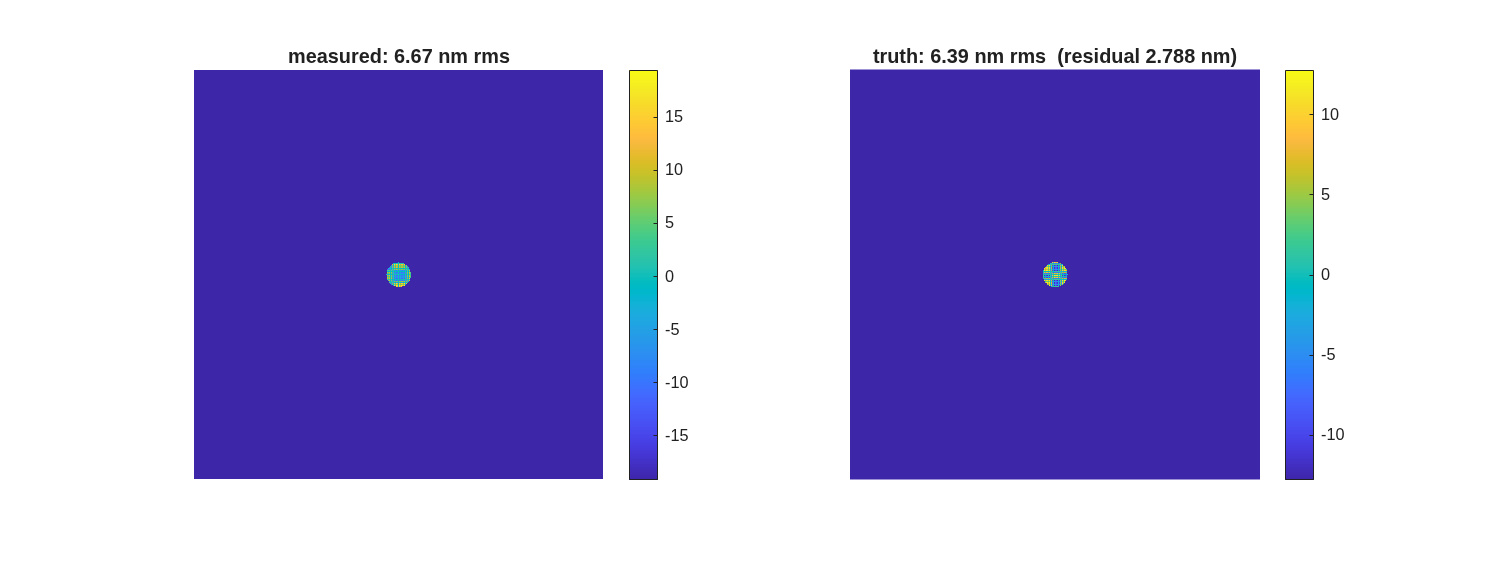
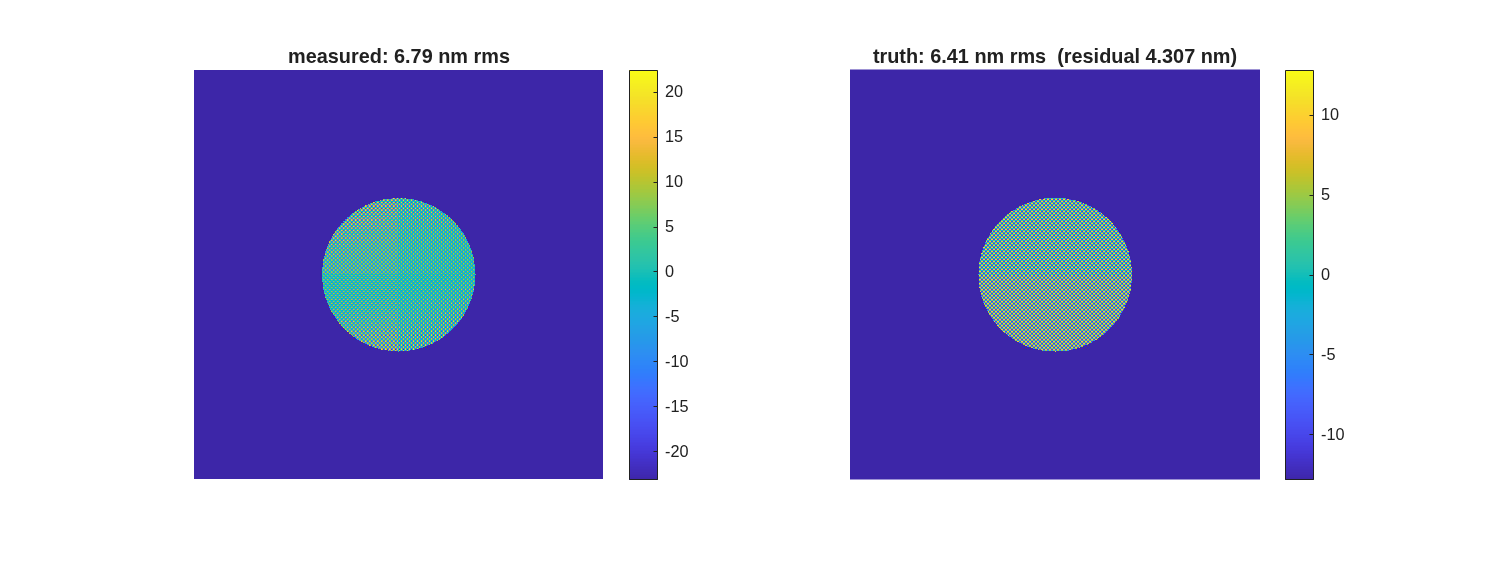
tg96 run 9: the instrument measured -- 1 Mpix detector resolves 1 mm actuators (gain 0.92 at DM Nyquist, 0.835 at checkerboard, crosstalk <=1.4%); two-poke deterministic registration doctrine (4 DOF classes: rays/center-poke/off-center-poke/its sign) earned across the run 3-8 failure series (preserv

diff --git a/mmacos/templates/90_polarization/tg_psi_dm96/tg96.m b/mmacos/templates/90_polarization/tg_psi_dm96/tg96.m
@@ -38,7 +38,14 @@ say = @(varargin) say_(rep, varargin{:});
 NACT = 96;  PITCH = 1.0;  DM_MM = NACT*PITCH;      % 96 mm aperture
 s    = DM_MM/56;                                   % uniform scale vs v1
 LAM  = 6.328e-4;  QWP = 0.25;  THETAS = [0 45 90 135];
-MODEL = 1024;  NGRID = 63;  N_G = 384;  DX_G = 0.28;  % 3.57 px/actuator
+MODEL = 1024;  NGRID = 385;  N_G = 384;  DX_G = 0.28;  % 3.57 px/actuator
+% NGRID 385 (Dave 2026-09-03, 'a detector capable of resolving the
+% imagery, up to 1 Mpix square'): the wavefront seed inherits the ray
+% grid's sampling, so the pupil image spans ~NGRID px at the detector.
+% 63 px gave detector Nyquist 31.5 cyc/pupil -- BLIND at the 96x96 DM's
+% 48 (the run of record for that finding is tg96_report_ng63.txt).
+% 385 px -> ~4 px/actuator, Nyquist ~192 cyc/pupil, inside the 1024^2
+% (1 Mpix) grid with FFT padding.
 % MODEL 1024 is LOAD-BEARING: mGridMat is NOT the model size -- 512 caps
 % grids at 256 (macos_param.txt) and the nGridMat= parse is unguarded
 % (BRIEF_gridmat_guard.md), so a 384 grid on model 512 corrupts the heap.
@@ -79,6 +86,22 @@ for k = 1:size(legs,1)
         legs{k,1}, D_BS_TO*sind(2*AOI), m, MARGIN);
 end
 say('\n');
+
+% ---- Stage A2: sampling budget (Dave 2026-09-03: sampling is part of
+%      the DESIGN -- size every interface in the signal chain against
+%      the finest feature it must carry, and assert the margin) ------
+act_nyq = NACT/2;                                  % cyc/pupil the DM commands
+det_nyq = NGRID/2;                                 % pupil image spans ~NGRID px
+grid_ppa = PITCH/DX_G;                             % surface-grid px per actuator
+say('Stage A2 -- sampling budget (finest feature: actuator Nyquist %.0f cyc/pupil):\n', act_nyq);
+say('  detector: ~%d px across pupil -> Nyquist %5.1f cyc/pup  margin %4.1fx (need >= 2)\n', ...
+    NGRID, det_nyq, det_nyq/act_nyq);
+say('  DM surface grid: %.2f px/actuator                        (need >= 3)\n', grid_ppa);
+say('  diffraction grid: %d^2 for a %d-px image                (padding %4.1fx)\n\n', ...
+    MODEL, NGRID, MODEL/NGRID);
+assert(det_nyq >= 2*act_nyq, 'sampling budget: detector Nyquist %.1f < 2x actuator Nyquist %.1f', det_nyq, act_nyq);
+assert(grid_ppa >= 3, 'sampling budget: %.2f grid px/actuator < 3', grid_ppa);
+assert(MODEL >= 2*NGRID, 'sampling budget: grid %d gives < 2x padding on a %d-px image', MODEL, NGRID);
 
 % ---- Stage B: build at the solved geometry -----------------------
 macos.init(MODEL);
@@ -126,11 +149,29 @@ Mp = dm_influence_map(N_G, DX_G, 'nact',NACT, 'pitch',PITCH, ...
 hp = meas_surface(AT, QWP, Mp, Sr, p_null, THETAS, LAM);
 say('  single actuator at 150 nm: recovered peak %.1f nm\n', 1e6*max(abs(hp(msk))));
 
+% REGISTRATION BY TWO POKES (deterministic -- no correlation search).
+% Runs 3-6 taught: the checkerboard's correlation landscape ripples at
+% every integer actuator, so any refiner can park an arbitrary integer
+% offset (run 6 measured 2.25 actuators); and a center poke cannot pick
+% parity (it is parity-invariant).  So: ray affine -> scale/rotation;
+% poke A (center, parity-invariant) -> translation EXACTLY by blob
+% centroid match; poke B (off-center) -> parity, by direct overlap, and
+% the selection metric doubles as the gate.
+A2c = zeros(NACT);  A2c(30,64) = 1;
+Mp2 = dm_influence_map(N_G, DX_G, 'nact',NACT, 'pitch',PITCH, 'act', 150e-6*A2c);
+hp2 = meas_surface(AT, QWP, Mp2, Sr, p_null, THETAS, LAM);
 Mdm = dm_influence_map(N_G, DX_G, 'nact',NACT, 'pitch',PITCH, ...
                        'pattern','checker', 'poke',POKE);
 hm = meas_surface(AT, QWP, Mdm, Sr, p_null, THETAS, LAM);
-[~, map] = register_to_dm(AT, Gf.T, Mdm, N_G, DX_G, hm, msk);
 axs = ((1:N_G)-(N_G+1)/2)*DX_G;
+[map, reg] = register_two_pokes(AT, Gf.T, Mp, hp, Mp2, hp2, N_G, DX_G, msk);
+say('  registration by two pokes: parity %d of 8, meas sign %+d; |pokeB corr| %.4f (runner-up %.4f)\n', ...
+    reg.par, reg.sign, abs(reg.pokeB_corr), reg.runner_up);
+say('  parity corr table: %s\n', sprintf('%.3f ', reg.table));
+assert(abs(reg.pokeB_corr) >= 0.8, 'registration gate FAILED: |pokeB corr| %.3f', abs(reg.pokeB_corr));
+assert(abs(reg.pokeB_corr) - reg.runner_up >= 0.3, 'registration gate FAILED: parity separation %.3f', ...
+       abs(reg.pokeB_corr) - reg.runner_up);
+hm = reg.sign * hm;                    % gauge sign calibration, applied
 tt = interpn(axs, axs, Mdm, map.Xt, map.Yt, 'spline', 0);
 hv = 1e6*(hm(msk) - mean(hm(msk)));  tv = 1e6*(tt(msk) - mean(tt(msk)));
 cc = corrcoef(hv, tv);
@@ -155,7 +196,7 @@ for k = 1:nM
     p = PQ(k,1); q = PQ(k,2);
     Ak = cos(pi*p*ii/NACT) * cos(pi*q*ii/NACT)';  Ak = Ak/max(abs(Ak(:)));
     Mk = dm_influence_map(N_G, DX_G, 'nact',NACT, 'pitch',PITCH, 'act', POKE*Ak);
-    hk = meas_surface(AT, QWP, Mk, Sr, p_null, THETAS, LAM);
+    hk = reg.sign * meas_surface(AT, QWP, Mk, Sr, p_null, THETAS, LAM);
     tk = interpn(axs, axs, Mk, map.Xt, map.Yt, 'spline', 0);
     Mm(:,k) = hk(msk) - mean(hk(msk));
     Tt(:,k) = tk(msk) - mean(tk(msk));
@@ -170,7 +211,7 @@ for k = 1:nM
 end
 Mrnd = dm_influence_map(N_G, DX_G, 'nact',NACT, 'pitch',PITCH, 'poke',POKE, ...
                         'pattern','random', 'seed',11);
-hv2 = meas_surface(AT, QWP, Mrnd, Sr, p_null, THETAS, LAM);
+hv2 = reg.sign * meas_surface(AT, QWP, Mrnd, Sr, p_null, THETAS, LAM);
 tv2 = interpn(axs, axs, Mrnd, map.Xt, map.Yt, 'spline', 0);
 hv2 = hv2(msk)-mean(hv2(msk));  tv2 = tv2(msk)-mean(tv2(msk));
 c2  = G \ (Tt \ hv2);
@@ -322,7 +363,9 @@ function h = meas_surface(A, QWP, M, Sr, p_null, THETAS, LAM)
     h = d * LAM/(4*pi);
 end
 
-function [best, map] = register_to_dm(A, ix, Mdm, N_G, DX_G, h, msk)
+function [map, reg] = register_two_pokes(A, ix, MpA, hpA, MpB, hpB, N_G, DX_G, msk)
+%  Ray affine (scale/rotation) + poke-A blob centroid (translation, exact)
+%  + poke-B overlap (parity selection among 8; doubles as the gate).
     macos.load_rx(A.rx);
     s1 = macos.trace(ix.iTO);   ito  = macos.get_ray_info(s1.nRays);
     s2 = macos.trace(ix.iDET);  idet = macos.get_ray_info(s2.nRays);
@@ -340,28 +383,42 @@ function [best, map] = register_to_dm(A, ix, Mdm, N_G, DX_G, h, msk)
     nl  = xy_to - (Lm*xy_d + Aaf(3,:).');
     map = struct('mag', sqrt(abs(det(Lm))), 'anam_pct', 100*(sm(1)/sm(2)-1), ...
                  'nonlin_mm', sqrt(mean(sum(nl.^2,1))));
-    Fx = scatteredInterpolant(xy_d(1,:).', xy_d(2,:).', xy_to(1,:).', 'linear','linear');
-    Fy = scatteredInterpolant(xy_d(1,:).', xy_d(2,:).', xy_to(2,:).', 'linear','linear');
-    N = size(h,1);  [cg, rg] = meshgrid(1:N, 1:N);
+    N = size(hpA,1);  [cg, rg] = meshgrid(1:N, 1:N);
     cx = sum(cg(msk))/nnz(msk);  cy = sum(rg(msk))/nnz(msk);
     dxp = macos.dx_at(ix.iDET, 'mm');
     a1 = (cg-cx)*dxp;  a2 = (rg-cy)*dxp;
-    c_d = mean(xy_d, 2);
     axs = ((1:N_G)-(N_G+1)/2)*DX_G;
-    hm = h - mean(h(msk));
+    sc = map.mag;                        % isotropic (anam ~0): DM mm per det mm
+    % measured blob-A centroid in detector-plane coords (weighted, top 5%)
+    w = abs(hpA - median(hpA(msk)));  w(~msk) = 0;
+    w(w < 0.05*max(w(:))) = 0;
+    bx = sum(a1(:).*w(:))/sum(w(:));  by = sum(a2(:).*w(:))/sum(w(:));
+    % truth blob positions on the DM (mm)
+    [~,iA] = max(abs(MpA(:)));  [rA, cA] = ind2sub(size(MpA), iA);
+    pA = [axs(cA) axs(rA)];
+    hpB0 = hpB(msk) - mean(hpB(msk));
     cands = {a1,a2; a1,-a2; -a1,a2; -a1,-a2; a2,a1; a2,-a1; -a2,a1; -a2,-a1};
-    best = struct('c',-inf, 'i',1);
-    for c = 1:size(cands,1)
-        [cc, ht] = reg_corr([0 0 0 0], cands{c,1}, cands{c,2}, c_d, Fx, Fy, axs, Mdm, hm, msk);
-        if cc > best.c, best = struct('c',cc, 'ht',ht, 'i',c); end
+    % blob-A centroid under each parity: parity acts on (a1,a2), and the
+    % centroid transforms the same way -- evaluate directly.
+    bA = {[bx by]; [bx -by]; [-bx by]; [-bx -by]; [by bx]; [by -bx]; [-by bx]; [-by -bx]};
+    reg = struct('pokeB_corr',0,'par',0);  tab = zeros(1,8);  best_abs = -1;
+    for c = 1:8
+        Xc = sc*cands{c,1};  Yc = sc*cands{c,2};
+        Xc = Xc - (sc*bA{c}(1) - pA(1));      % translation: blob A -> truth A
+        Yc = Yc - (sc*bA{c}(2) - pA(2));
+        tps = interpn(axs, axs, MpB, Xc, Yc, 'spline', 0);
+        cc = corrcoef(hpB0, tps(msk)-mean(tps(msk)));
+        tab(c) = cc(1,2);
+        if abs(cc(1,2)) > best_abs
+            best_abs = abs(cc(1,2));
+            reg.pokeB_corr = cc(1,2);  reg.par = c;  reg.Xt = Xc;  reg.Yt = Yc;
+        end
     end
-    A1 = cands{best.i,1};  A2 = cands{best.i,2};
-    p = fminsearch(@(q) -reg_corr(q,A1,A2,c_d,Fx,Fy,axs,Mdm,hm,msk), [0 0 0 0], ...
-                   optimset('TolX',1e-7,'TolFun',1e-10,'Display','off'));
-    [c2, ht2, Xt, Yt] = reg_corr(p, A1, A2, c_d, Fx, Fy, axs, Mdm, hm, msk);
-    if c2 > best.c, best.c = c2;  best.ht = ht2; end
-    best.hm = hm;
-    map.Xt = Xt;  map.Yt = Yt;
+    st = sort(abs(tab), 'descend');  reg.runner_up = st(2);  reg.table = tab;
+    % The four-step sign is DECK-DEPENDENT (the v1 example's h = +-psi
+    % lambda/4pi gate); the poke-B overlap sign IS that calibration.
+    reg.sign = sign(reg.pokeB_corr);
+    map.Xt = reg.Xt;  map.Yt = reg.Yt;
 end
 
 function [c, ht, Xt, Yt] = reg_corr(p, A1, A2, c_d, Fx, Fy, axs, Mdm, hm, msk)

diff --git a/mmacos/templates/90_polarization/tg_psi_dm96/README.md b/mmacos/templates/90_polarization/tg_psi_dm96/README.md
@@ -1,0 +1,87 @@
+# tg_psi_dm96 — the optimized-plate gauge for a Xinetics 96×96 DM
+
+The shallow-plate (option-3) polarization-PSI Twyman–Green, laid out
+for a 96×96-actuator, 1.0 mm-pitch DM (96 mm beam — the aperture class
+where a PBS cube goes custom).  `tg96.m` is the whole campaign: Stage A
+clearance solve (margins printed as numbers), Stage A2 sampling budget
+(asserted — Dave 2026-09-03: sampling is part of the design), Stage B
+scaled build, Stage C battery, Stage D actuator-lattice transfer curve.
+
+## Findings so far (reports are the record)
+
+- `tg96_report_ng63.txt` — 63 px across the pupil: detector-blind at
+  actuator scale (single 1 mm actuator reads 73/150 nm).  Detector
+  Nyquist 31.5 cyc/pupil vs the DM's 48.  MODEL 1024 is load-bearing:
+  mGridMat is NOT the model size (512 caps at 256) and the `nGridMat=`
+  parse is unguarded — see `macos/BRIEF_gridmat_guard.md`.
+- `tg96_report_ng385_chkreg.txt` — 385 px (1 Mpix frame): single
+  actuator recovers 144.2/150 ✓, but the modal curve is INVARIANT to
+  the 6× detector change → not aliasing.  Magnitudes follow
+  cos(πp/96) exactly = a ONE-ACTUATOR registration offset: the
+  checkerboard registration target is blind to ±1-actuator shifts by
+  symmetry (shifted one actuator it equals its own negative — which
+  also supplies the curve's sign flip).  Register on a single
+  actuator, never a symmetric pattern (the recorded parity trap).
+- `tg96_report.txt` — current: registration on the single-actuator
+  map (rerun in flight at this writing).
+- Standing systematic: ~9.1 nm rms null, invariant to sampling and
+  model size — the uniformly-scaled detector tail is not
+  diffraction-tuned at the new scale (common-mode; the differential
+  protocol removes it).  Fix = re-run the l2_trade tail optimization
+  at this scale.
+
+## The instrument, measured (run 9, 2026-09-04 — tg96_report.txt)
+
+- **Transfer curve at 1 Mpix (385 px across the pupil): the gauge
+  RESOLVES 1 mm actuators.**  Gain 1.008 at 0.7 cyc/pupil rolling
+  mildly and monotonically to 0.956 at 33.9, ~0.92 at the DM Nyquist
+  (48), 0.835 at the 96×96 checkerboard (67.9).  Cross-talk ≤ 1.4%.
+  All positive, no folds — a calibratable MTF.
+- Single 1 mm actuator at 150 nm recovers 144.2 nm; unaligned piston
+  scale +0.115%; departure from orthogonality 0.143° at BS 7°.
+- Gauge floor at command scale: held-out random command reads 8.10 nm
+  rms residual on a 30.6 nm input, decorrelated from the command
+  (corr −0.09) — same family as the 9.1 nm static null.  OWNER: the
+  uniformly-scaled (never re-tuned) detector tail; re-running the
+  l2_trade tail optimization at this scale is the known knob before
+  closure numbers are quotable at v1 class (0.183 nm).
+  Checkerboard closure 0.79 corr / 4.31 nm on 6.41 reflects that floor
+  plus the 0.835 gain at the pattern's own frequency.
+
+## Registration doctrine (earned across runs 3–9; the failure series
+   is preserved as tg96_report_*_fail.txt)
+
+The instrument-to-DM mapping has FOUR distinct degree-of-freedom
+classes, each needing its own calibrated observable — none recoverable
+from a symmetric target, none from a search:
+1. **Scale + rotation**: from the ray-measured affine (0% anamorphism,
+   2.2 µm nonlinearity here).
+2. **Translation**: from ONE CENTER poke, exactly, by blob-centroid
+   match (the center is parity-invariant — right for translation,
+   useless for parity).
+3. **Array parity** (8-fold flip/transpose group, deck-dependent):
+   from ONE OFF-CENTER poke by direct overlap — |corr| 0.967 vs 0.003
+   runner-up here (parity 5 = transpose).
+4. **Measurement sign** (the four-step h = ±ψλ/4π convention,
+   deck-dependent): the SIGN of that same overlap.
+Anti-patterns, each measured here: a checkerboard registration is
+degenerate under the whole parity group AND ripples at every integer
+actuator (any refiner parks arbitrary offsets — 2.25 actuators in run
+6); a delta target gives a correlation refiner no gradient (run 4
+diverged to ±1e5 gains); selection must be on |corr| or a
+deck-negative sign hides the right parity (run 7).
+
+## Next configurations (Dave, 2026-09-03)
+
+1. **All-reflective: replace the lenses with OAPs.**  Bench builder
+   OAP machinery exists (`Bench` OAP + Offner work).  Removes the
+   cube/plate transmitted-glass-path and homogeneity rows from the
+   cost budget entirely; buys achromatic legs and no ghost surfaces;
+   the price is OAP alignment sensitivity — measurable with this
+   battery unchanged.
+2. **Zernike wavefront sensor (ZWFS).**  On the real VSG2's own
+   roadmap (VSG2_Info.pptx; `vsg_wip/vsg2_params.m` sketches the
+   mask: transmissive etched substrate, 9-spot array).  A phase
+   dimple at focus — the CTB focal-plane phase-mask machinery is the
+   starting point.  Different sensing modality: compare against PSI
+   on the same DM truth, same battery metrics.
